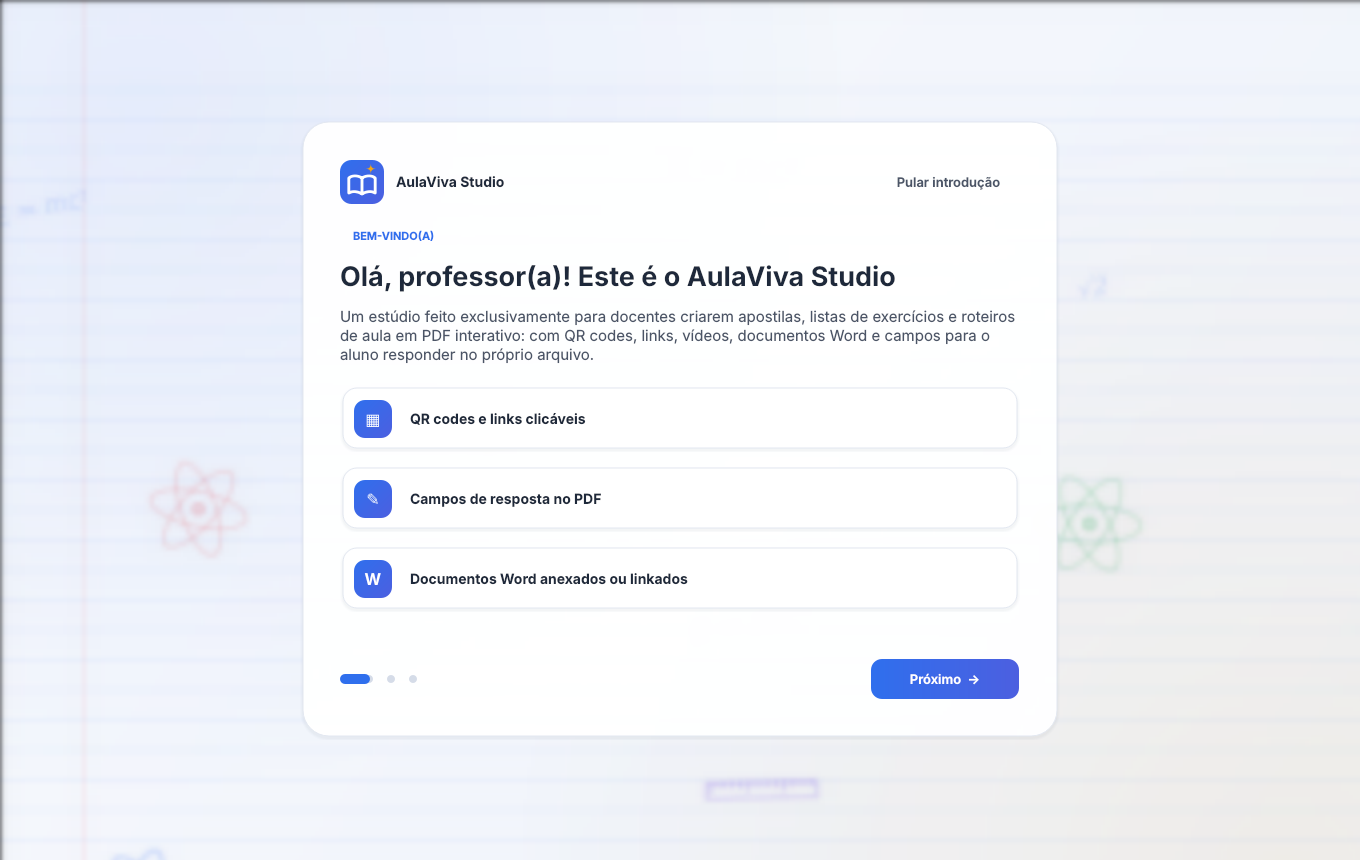
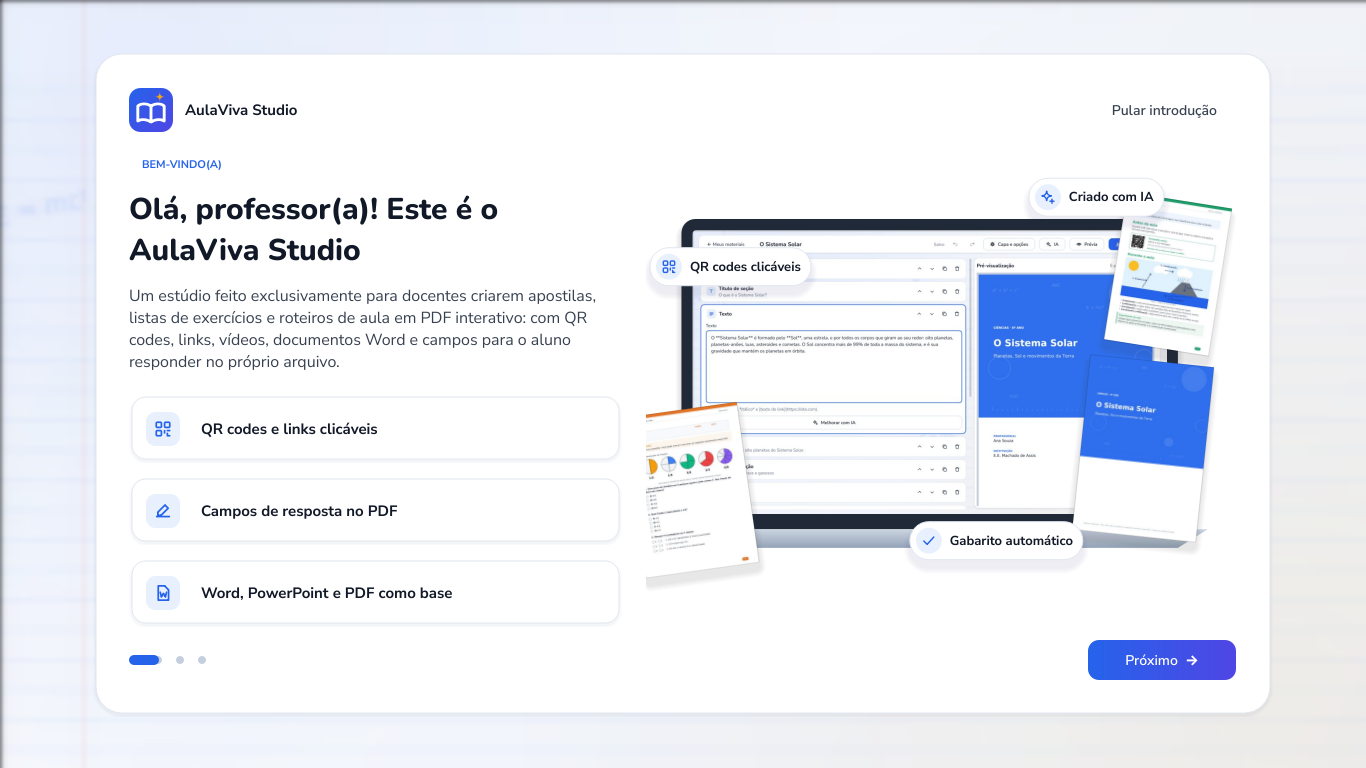
chore: versão 2.2.0, documentação e capturas
Claude-Session: https://claude.ai/code/session_01RTRBjpSZP1yTkXzpVPjrZ6

diff --git a/aulaviva/__init__.py b/aulaviva/__init__.py
@@ -1,6 +1,6 @@
 """AulaViva Studio - criador de apostilas e PDFs interativos para professores."""
 
-__version__ = "2.1.0"
+__version__ = "2.2.0"
 APP_NAME = "AulaViva Studio"
 APP_ID = "aulaviva-studio"
 ORG_NAME = "AulaViva"

diff --git a/README.md b/README.md
@@ -14,11 +14,12 @@ próprio PDF e um **assistente de IA** (com opções gratuitas).
 |---|---|
 | **Criar com IA** | Escolha o tipo (apostila, lista, prova ou roteiro), informe o tema e a turma: a IA escreve o material completo e você modifica o que quiser no editor. |
 | **Criar manualmente** | Editor em cartões: cada bloco é editado direto no documento. Botão **＋ Adicionar** com todos os tipos de bloco explicados. |
+| **A partir de um arquivo** | Importe Word, PowerPoint, PDF (Canva), ODT, TXT ou RTF: o conteúdo vira blocos editáveis ou serve de base para a IA montar o material. |
 | **Lista rápida** | Digite ou cole as questões em texto comum e elas viram questões interativas (múltipla escolha, V/F, abertas), com gabarito. |
-| **Modelos prontos** | Materiais reais por disciplina (Ciências, Matemática, Português, História, Geografia, Inglês), com ilustrações e prévia da página. |
+| **30 modelos prontos** | Apostilas, listas, provas e roteiros reais de várias disciplinas e anos, com ilustrações, prévia da página, busca e filtro. |
 | **QR code e links** | Gerador de QR code (PNG/SVG, cores, logo da escola, Wi-Fi) e de links (WhatsApp, e-mail, YouTube no minuto certo, Drive, cópia do Google Docs, Maps, limpeza de rastreadores). |
 | **PDF interativo** | Capa, sumário clicável, QR codes e botões clicáveis, campos de resposta, anexos Office, gabarito, proteção AES-256. Exporta as versões **aluno** e **professor** de uma vez. |
-| **Claro ou escuro** | Tema claro (papel/caderno) ou escuro (lousa), com a fonte Inter, nítida em qualquer tela. |
+| **Claro ou escuro** | Tema claro (papel/caderno) ou escuro (lousa), com as fontes Nunito e Nunito Sans e animações suaves. |
 | **Segurança** | Argon2id, dados pessoais criptografados (AES-256-GCM), cofre do sistema para chaves, bloqueio por inatividade, LGPD (exportar/excluir dados). |
 
 <table>
@@ -81,9 +82,9 @@ Linux a cada push; quando uma versão nova chega ao `main`, o workflow `build` g
 
 ```
 aulaviva/
-  core/   security · database · auth · projects · pdf_builder · quicklist · ai · samples · qrtools · linktools · oauth
+  core/   security · database · auth · projects · pdf_builder · quicklist · importers · ai · samples(+_extra) · qrtools · linktools · oauth
   ui/     theme · effects · widgets · onboarding · auth_views · dashboard · editor · quick_create
-          templates_page · tools_page · main_window
+          templates_page · tools_page · art (ilustrações) · promo (vitrine) · main_window
   assets/ ícones, fontes livres (DejaVu) e ícones de interface
 tests/    testes automatizados
 packaging/ PyInstaller, Inno Setup, scripts de build, atalho Linux

diff --git a/CHANGELOG.md b/CHANGELOG.md
@@ -1,5 +1,19 @@
 # Histórico de versões
 
+## 2.2.0
+- **Muito mais rápido e sem travamentos:** geração de PDF (prévia, exportação, miniaturas) roda num processo separado,
+  sem disputar o processador com a interface; páginas do painel montadas sob demanda; troca de tema claro/escuro de
+  ~1,5 s para ~0,2 s; abrir um bloco no editor de ~60 ms para ~15 ms.
+- **Importar arquivos do professor:** Word (.docx/.doc), PowerPoint (.pptx/.ppt), PDF (inclusive exportado do Canva),
+  LibreOffice (.odt/.odp), texto, Markdown, RTF e imagens. O conteúdo vira blocos editáveis (títulos, textos, listas,
+  tabelas, imagens e até questões) ou serve de **base para a IA** criar apostila, lista, prova ou roteiro.
+  Leitura segura (defusedxml, proteção contra zip bomb, bloqueio de macros).
+- **30 modelos prontos** (24 novos): apostilas, listas, provas e roteiros de várias disciplinas e anos, com ilustrações,
+  busca e filtro por disciplina.
+- **Novas fontes:** Nunito (títulos) e Nunito Sans (textos), embutidas.
+- **Ilustrações e ícones vetoriais** no lugar dos emojis; cartões e menu com animações ao passar o mouse.
+- **Boas-vindas e login no estilo vitrine**, com telas e PDFs reais do programa animados.
+
 ## 2.1.0
 - Nova fonte de interface **Inter** (embutida, licença OFL) e textos com mais contraste e tamanhos maiores.
 - **Modo escuro** (Claro / Escuro / Automático) em *Configurações > Preferências*, aplicado na hora sem sair da conta.
